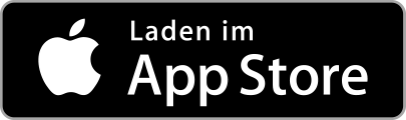
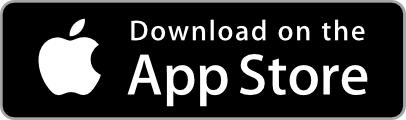
fixed textx and images

diff --git a/index.html b/index.html
@@ -4,12 +4,12 @@
     <meta charset="utf-8">
     <meta http-equiv="X-UA-Compatible" content="IE=edge">
     <meta name="viewport" content="width=device-width, initial-scale=1">
-		<meta name="description" content="Stillbuch erfasst alle Mahlzeiten Deines Babys."/>
-  	<meta name="keywords" content="stillen, stoppuhr, fläschchen, mutter, baby, tagebuch" />
-		<meta name="language" content="de"/>
-		<meta name="content-language" content="de"/>
-		<meta name="publisher" content="simplabs Malthe Luda" />
-    <title>Mein Stillbuch</title>
+		<meta name="description" content="Feeding Journal, the app for modern new mums"/>
+  	<meta name="keywords" content="timer, feeding, brest feeding, nursing" />
+		<meta name="language" content="en"/>
+		<meta name="content-language" content="en"/>
+		<meta name="publisher" content="simplabs, Malthe Luda" />
+    <title>Feeding Journal</title>
     <link rel="shortcut icon" type="image/x-icon" href="/images/stillbuch.ico" />
     <link rel="apple-touch-icon" href="/images/apple-57.png">
     <link rel="apple-touch-icon" sizes="72x72" href="/images/apple-72.png">
@@ -35,10 +35,10 @@
           <i id="main-image" class="default"></i>
         </div>
         <div class="col-md-7 col-xs-12">
-          <h1>Mein Stillbuch</h1>
+          <h1>Feeding Journal</h1>
           <a id="download-teaser" href="https://itunes.apple.com/us/app/stillbuch/id918237891?l=de&ls=1&mt=8"><i></i></a>
-          <p>Stillbuch erfasst alle Mahlzeiten Deines Babys. Mit der Stoppuhr kannst Du bequem festhalten wie lange Dein Baby an welcher Brust trinkt. Auch Mahlzeiten aus dem Fläschchen können einfach eingegeben werden. Im Still-Tagebuch werden alle Mahlzeiten gespeichert so dass Du immer einen Überblick darüber hast wann Dein Baby wie lange bzw. wie viel getrunken hat.</p>
-          <p>Liebevolle Mütter empfehlen Stillbuch.</p>
+          <p>When is baby due his next feed? What breast did she drink from last? How much was in her last bottle? Suffering from baby brain? Want to keep track of your little one’s progress? Now you can with Feeding Journal. Remember which breast fed baby the last time, record the time and duration of feeds and keep a record of when and how much your baby drinks during bottle feeds. Feeding Journal allows you to keep track of your baby's feeding with minimal effort so you can relax.</p>
+          <p>Feeding Journal, the app for modern new mums</p>
           <a href="https://itunes.apple.com/us/app/stillbuch/id918237891?l=de&ls=1&mt=8" class="store-link">
             <i id="load"></i>
           </a>
@@ -48,35 +48,35 @@
         <div class="col-md-3 col-xs-6 text-center">
           <a href="#clock">
             <i class="feature-clock"></i>
-            Einfache <br/>Zeiterfassung
+            Record feeding <br/>time with ease
           </a>
         </div>
         <div class="col-md-3 col-xs-6 text-center">
           <a href="#history">
             <i class="feature-history"></i>
-            Persönliches <br/>Still-Tagebuch
+            Personal <br/>feeding log
           </a>
         </div>
         <div class="col-md-3 col-xs-6 text-center">
           <a href="#bottle">
             <i class="feature-bottle"></i>
-            Erfassung von <br/>Flaschennahrung
+            Enter bottle <br/>feeds
           </a>
         </div>
         <div class="col-md-3 col-xs-6 text-center">
           <a href="#recommended">
             <i class="feature-recommended"></i>
-            Von liebevollen <br/>Müttern empfohlen
+            The app for <br/>modern new mums
           </a>
         </div>
       </div>
     </div>
     <nav id="footer" class="navbar" role="navigation">
       <div class="container">
-        <p class="navbar-text">Stillbuch ist ein Gemeinschaftsprojekt von <a target="_blank" href="http://simplabs.com">simplabs</a> und <a href="http://www.maltheluda.com/" target="_blank">Malthe Luda</a>.</p>
+        <p class="navbar-text">Stillbuch is a joint project of <a target="_blank" href="http://simplabs.com">simplabs</a> and <a href="http://www.maltheluda.com/" target="_blank">Malthe Luda</a>.</p>
         <p class="navbar-text">
-          <a class="imprint" href="files/presskit.zip">Pressematerial</a> |
-          <a class="imprint" href="http://simplabs.com/imprint">Impressum</a>
+          <a class="imprint" href="files/presskit.zip">Media</a> |
+          <a class="imprint" href="http://simplabs.com/imprint">Legal notice</a>
         </p>
       </div>
     </nav>
